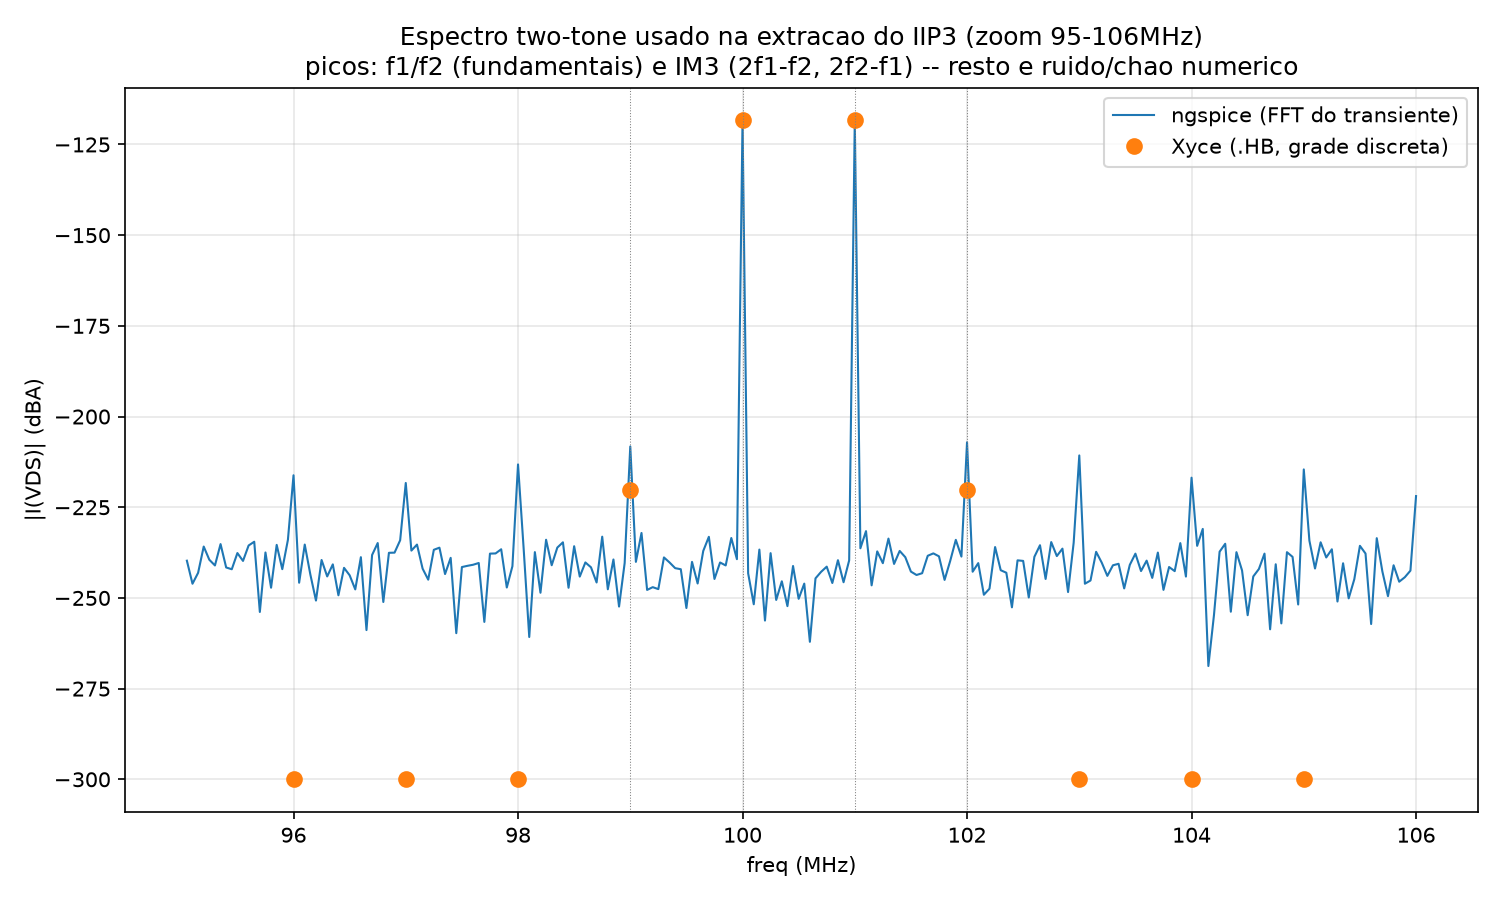
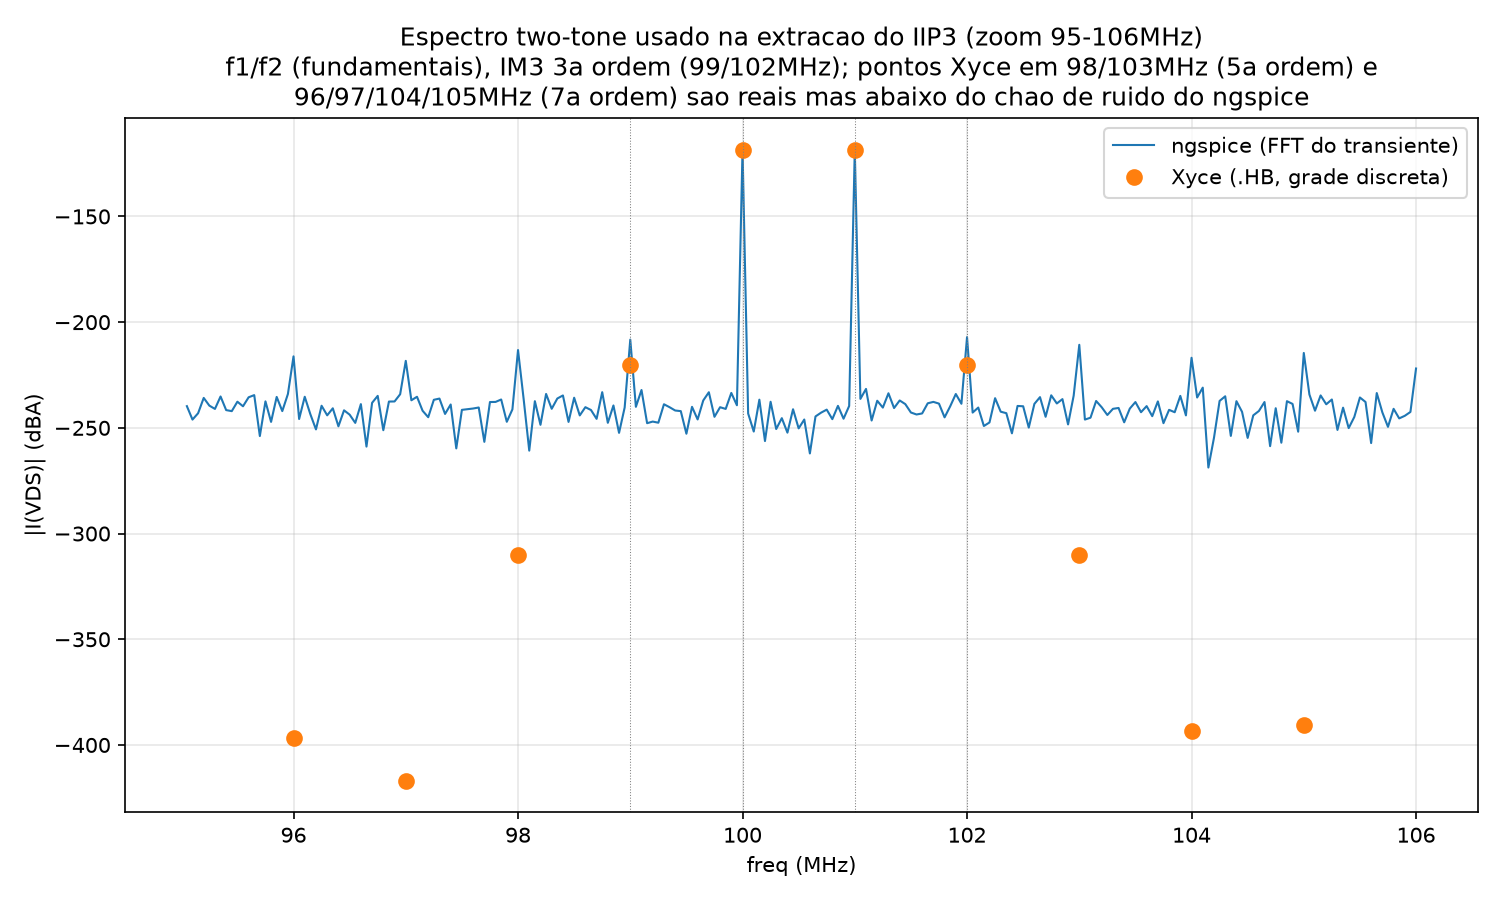
Fix spectrum plot floor that was masking real 5th/7th-order IM products
The plot's dB floor (1e-15) was clamping Xyce's genuine higher-order
intermodulation values at 98/103MHz (~3e-16 A, 5th order) and
96/97/104/105MHz (~1.5-3e-20 A, 7th/9th order) down to what looked like
exact zero -- they were never noise or missing data, just below the
clamp. Confirmed by reading the raw HB_FD CSV directly: values fall off
sharply with order (consistent with weak nonlinearity at 5mV/tone) but
are real and computed by Xyce's HB. Lowered the floor to 1e-22 so the
true rolloff shows, and corrected the plot title and README prose that
had described these points as noise/floor artifacts.

diff --git a/validate/nfet_01v8_iip3/compare.py b/validate/nfet_01v8_iip3/compare.py
@@ -232,13 +232,17 @@ def main():
     # pontos discretos do .HB do Xyce (grade de intermodulacao, nao um
     # espectro denso -- HB so resolve exatamente as frequencias de
     # mistura que ele mesmo calcula). ---
+    # Piso baixo o bastante para nao mascarar produtos de intermodulacao
+    # de ordem mais alta genuinamente pequenos (ex.: 5a ordem em 98/103MHz
+    # fica ~3e-16 no Xyce -- um piso de 1e-15 os "achataria" a zero).
+    floor = 1e-22
     fmin, fmax = 95e6, 106e6
     mask = (ng_freqs >= fmin) & (ng_freqs <= fmax)
     ng_freqs_win = ng_freqs[mask]
-    ng_db_win = 20 * np.log10(np.maximum(ng_amp[mask], 1e-15))
+    ng_db_win = 20 * np.log10(np.maximum(ng_amp[mask], floor))
 
     xy_freqs_win = sorted(f for f in xy_rows if fmin <= f <= fmax)
-    xy_db_win = [20 * np.log10(max(xy_rows[f], 1e-15)) for f in xy_freqs_win]
+    xy_db_win = [20 * np.log10(max(xy_rows[f], floor)) for f in xy_freqs_win]
 
     fig2, ax2 = plt.subplots(figsize=(10, 6))
     ax2.plot(ng_freqs_win / 1e6, ng_db_win, "-", color="tab:blue", linewidth=1,
@@ -251,7 +255,8 @@ def main():
     ax2.set_xlabel("freq (MHz)")
     ax2.set_ylabel("|I(VDS)| (dBA)")
     ax2.set_title(f"Espectro two-tone usado na extracao do IIP3 (zoom {fmin/1e6:.0f}-{fmax/1e6:.0f}MHz)\n"
-                  f"picos: f1/f2 (fundamentais) e IM3 (2f1-f2, 2f2-f1) -- resto e ruido/chao numerico")
+                  f"f1/f2 (fundamentais), IM3 3a ordem (99/102MHz); pontos Xyce em 98/103MHz (5a ordem) e\n"
+                  f"96/97/104/105MHz (7a ordem) sao reais mas abaixo do chao de ruido do ngspice")
     ax2.legend()
     ax2.grid(True, alpha=0.3)
     fig2.tight_layout()

diff --git a/README.md b/README.md
@@ -395,13 +395,24 @@ transiente do ngspice (linha) contra a grade discreta do `.HB` do Xyce
 
 ![Espectro two-tone usado na extracao do IIP3](validate/results/nfet_01v8_iip3_spectrum_tt.png)
 
-Da pra ver os dois picos de IM3 (99MHz, 102MHz) claramente acima do
-chao de ruido numerico da FFT (~30-40dB de folga -- medida confiavel,
-nao e o proprio ruido que estamos lendo) e, ao mesmo tempo, visivelmente
-mais baixos que o esperado se batessem com o Xyce -- o gap de ~4x do
-achado 13 aparece aqui como um degrau entre a linha azul (ngspice) e o
-ponto laranja (Xyce) exatamente nessas duas frequencias, enquanto nas
-fundamentais (100MHz, 101MHz) os dois praticamente coincidem.
+Da pra ver os dois picos de IM3 (99MHz, 102MHz, 3a ordem) claramente
+acima do chao de ruido numerico da FFT (~30-40dB de folga -- medida
+confiavel, nao e o proprio ruido que estamos lendo) e, ao mesmo tempo,
+visivelmente mais baixos que o esperado se batessem com o Xyce -- o gap
+de ~4x do achado 13 aparece aqui como um degrau entre a linha azul
+(ngspice) e o ponto laranja (Xyce) exatamente nessas duas frequencias,
+enquanto nas fundamentais (100MHz, 101MHz) os dois praticamente
+coincidem.
+
+Os pontos do Xyce em 98/103MHz e 96/97/104/105MHz **nao sao zero/ruido**
+-- sao produtos de intermodulacao genuinos de 5a e 7a ordem (`|I|` real
+~3e-16A e ~1.5-3e-20A respectivamente, confirmado lendo o CSV bruto do
+`.HB`, nao a versao com piso de plotagem). Caem tao rapido com a ordem
+(coerente com nao-linearidade fraca em Vin=5mV/tom) que ficam bem
+abaixo do chao de ruido do ngspice (~-235 a -250dBA) -- o transiente+FFT
+simplesmente nao tem alcance dinamico pra enxergar esses termos, ainda
+que o Xyce os resolva sem problema. Boa ilustracao pratica de por que
+HB existe como metodo dedicado para esse tipo de analise.
 
 Reproduzir:
 